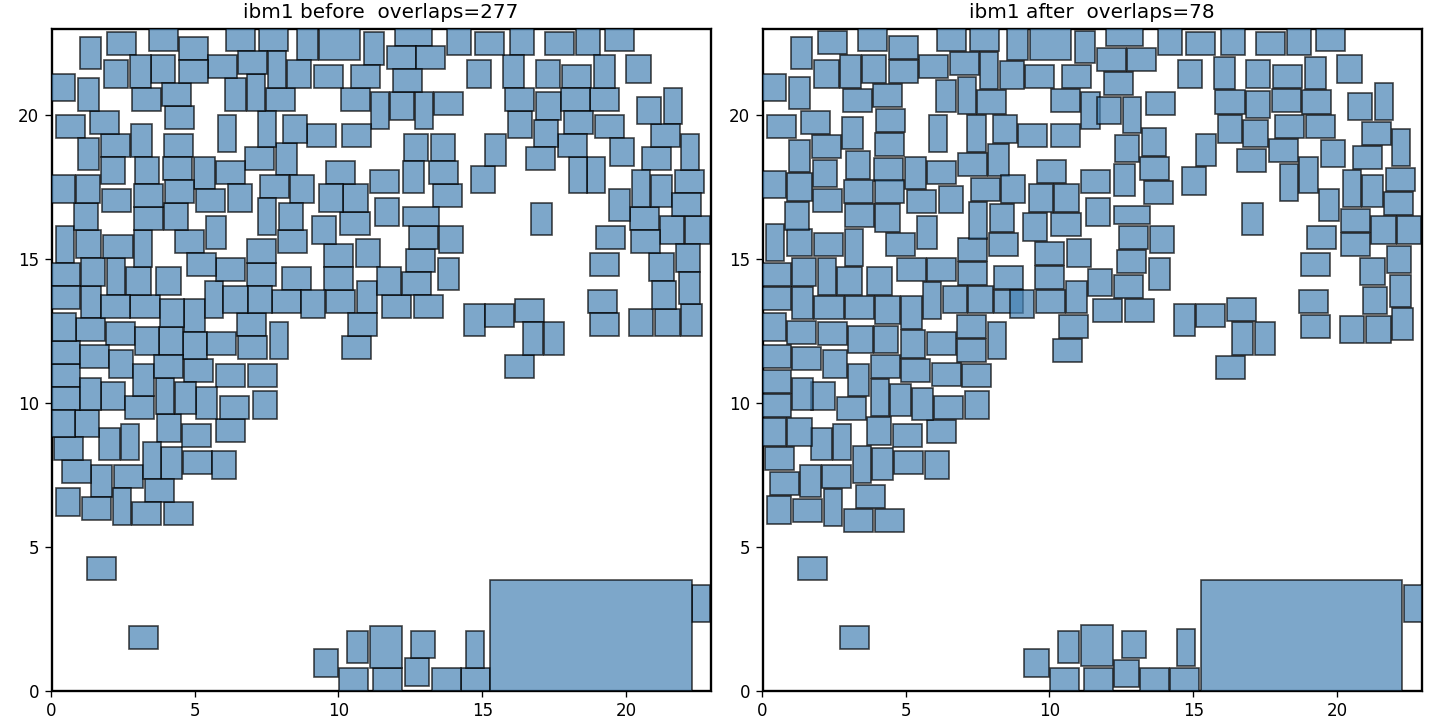
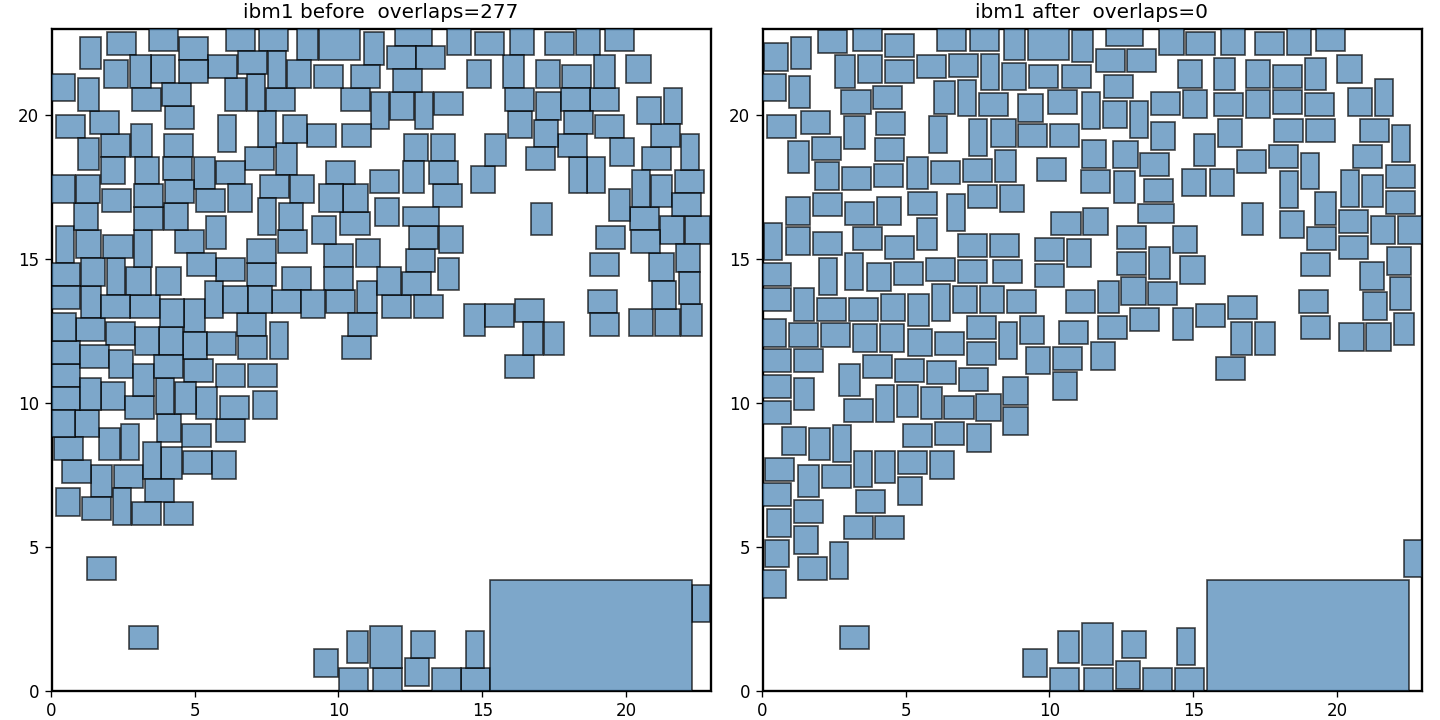
rm

diff --git a/submissions/pritraj1/_legalize.py b/submissions/pritraj1/_legalize.py
@@ -138,14 +138,14 @@ def _min_displacement(
     b_ub: List[float] = []
 
     for i in range(n):
-        # t_i >= coord_i - target_i  →  coord_i - t_i <= target_i
+        # t_i >= coord_i - target_i  ->  coord_i - t_i <= target_i
         row = np.zeros(2 * n)
         row[i] = 1.0
         row[n + i] = -1.0
         A_rows.append(row)
         b_ub.append(float(target[i]))
 
-        # t_i >= target_i - coord_i  →  -coord_i - t_i <= -target_i
+        # t_i >= target_i - coord_i  ->  -coord_i - t_i <= -target_i
         row = np.zeros(2 * n)
         row[i] = -1.0
         row[n + i] = -1.0
@@ -229,7 +229,6 @@ def _find_best(
     best_dist = 1e18
     best_x = min(max(target_x, hw_i), cw - hw_i)
     best_y = min(max(target_y, hh_i), ch - hh_i)
-    found = False
 
     for c in range(num_cands):
         cx = cand_arr[c, 0]
@@ -263,9 +262,8 @@ def _find_best(
             best_dist = d
             best_x = cx
             best_y = cy
-            found = True
 
-    return np.array([best_x, best_y], dtype=np.float64), found
+    return np.array([best_x, best_y], dtype=np.float64)
 
 
 def _greedy_legalize(
@@ -324,7 +322,7 @@ def _greedy_legalize(
             [(x, y) for x in valid_x for y in valid_y], dtype=np.float64
         )
 
-        best_p, _ = _find_best(
+        best_p = _find_best(
             target_x,
             target_y,
             hw_i,

diff --git a/test_legalize.py b/test_legalize.py
@@ -58,7 +58,7 @@ movable = bench.get_movable_mask()[:n].numpy()
 cw, ch = float(bench.canvas_width), float(bench.canvas_height)
 
 print(f"input overlaps: {count_overlaps(pos, sizes)}")
-legal = legalize_graph(pos, sizes, movable, cw, ch, gap=0.05, prefer_displacement=True)
+legal = legalize_graph(pos, sizes, movable, cw, ch, prefer_displacement=True)
 print(f"output overlaps: {count_overlaps(legal, sizes)}")
 print(f"mean displacement: {np.mean(np.linalg.norm(legal - pos, axis=1)):.4f}")
 
@@ -93,5 +93,18 @@ if (
     or not fixed_ok
 ):
     print("FAIL")
+    if not in_bounds:
+        oob_left = legal[:, 0] - half[:, 0] < -1e-6
+        oob_right = legal[:, 0] + half[:, 0] > cw + 1e-6
+        oob_bottom = legal[:, 1] - half[:, 1] < -1e-6
+        oob_top = legal[:, 1] + half[:, 1] > ch + 1e-6
+        print(
+            f"OOB Macro Indices: {np.where(oob_left | oob_right | oob_bottom | oob_top)[0]}"
+        )
+
+    if not fixed_ok:
+        fixed_indices = np.where(~movable)[0]
+        max_drift = np.max(np.abs(legal[~movable] - pos[~movable]))
+        print(f"Max fixed macro drift: {max_drift:.6f}")
 else:
     print("PASS")

diff --git a/submissions/pritraj1/README.md b/submissions/pritraj1/README.md
@@ -11,8 +11,24 @@ Two parts to the problem:
 
 Approach: constraint graph + lp
 
-We map out the hard separation constraints to a pairwise graph and use existing linear programming packages to satisfy them while minimizing displacement to a target.
+We map out the hard separation constraints to a pairwise graph and use existing linear programming packages to satisfy them while minimizing displacement to a target. Aims to preserve approximate position:
 
-## 2. Relative placement in front of legalizer
+<div align="center">
+
+<img src="../../gifs/legalize_ibm1.png" width="400">
+
+<sub><b>Legalization on IBM1, overlaps=0, positions preserved</b></sub>
+
+</div>
+
+<div align="center">
+
+<img src="../../gifs/legalize_ibm1_centered.png" width="400">
+
+<sub><b>Legalization when all overlapping (centred)</b></sub>
+
+</div>
+
+## 2. Global placer in front of legalizer
 
 ## 3. Co-optimization
